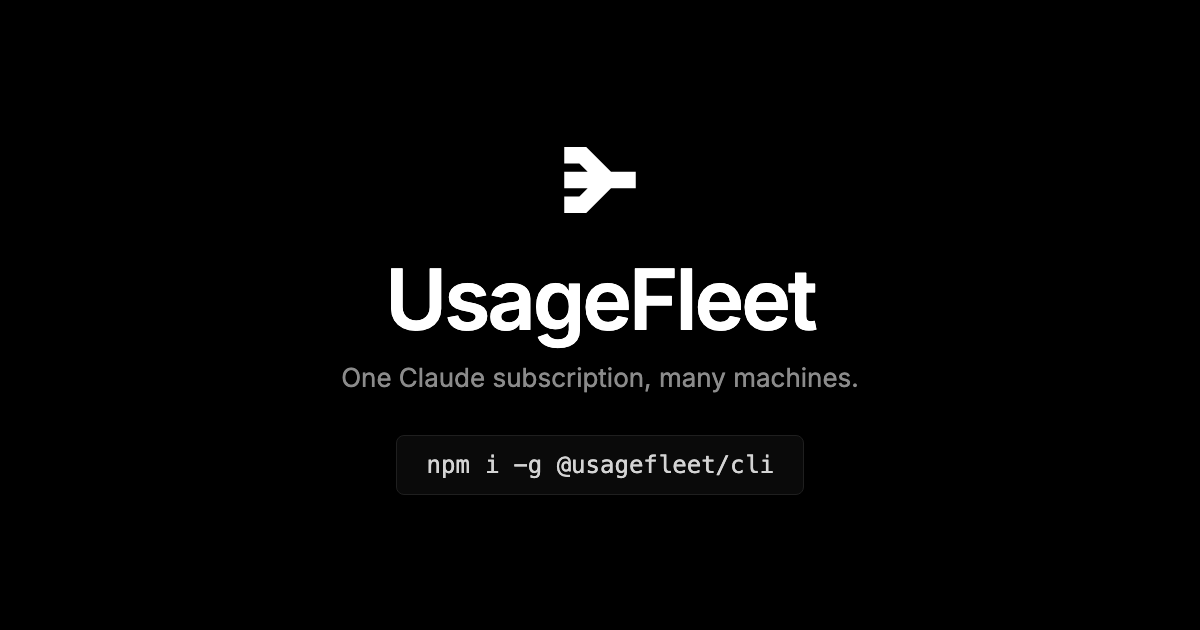
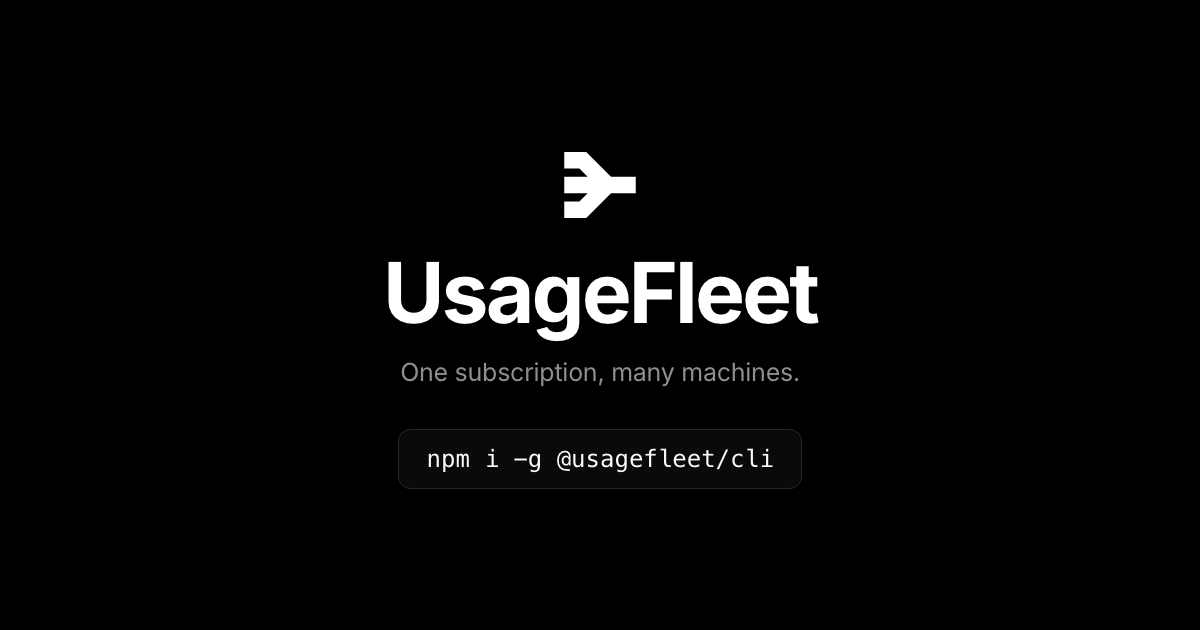
docs: shorten the tagline to "One subscription, many machines."
The product tracks one Claude subscription, but the shorter line reads
better as a headline and matches what the landing page already says.
Re-rendered the link-preview image with the same layout.

Changed region(s): [[0.2775, 0.3921, 0.7092, 0.6333], [0.3392, 0.6937, 0.6475, 0.754], [0.4625, 0.2111, 0.5242, 0.3619]]

diff --git a/README.md b/README.md
@@ -7,7 +7,7 @@
 	<a href="LICENSE"><img src="https://img.shields.io/badge/license-GPL--3.0--or--later-000?style=flat-square&labelColor=000" alt="GPL-3.0-or-later"></a>
 </p>
 
-One Claude subscription, many machines. UsageFleet reports Anthropic's **own**
+One subscription, many machines. UsageFleet reports Anthropic's **own**
 5-hour and weekly utilization and splits it across the device groups you define,
 so you can see which laptop, desktop or server burned the window.
 
